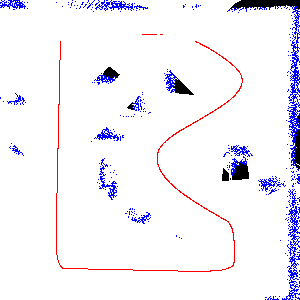
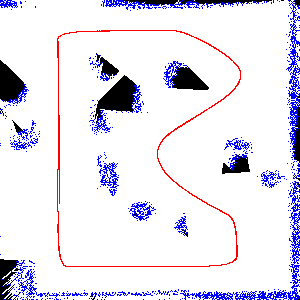
Lab4 code is done

diff --git a/lab4/controllers/csci3302_lab4/csci3302_lab4.py b/lab4/controllers/csci3302_lab4/csci3302_lab4.py
@@ -74,6 +74,8 @@ lidar_offsets = np.linspace(-math.pi/4, math.pi/4, LIDAR_ANGLE_BINS)
 
 #### End of Part 1 #####
 
+prevPose = []
+z = 0
 # Main Control Loop:
 while robot.step(SIM_TIMESTEP) != -1:
 
@@ -96,6 +98,10 @@ while robot.step(SIM_TIMESTEP) != -1:
     # hint: display.drawLine(int x1, int y1, int x2, y2)
 
     scale = 300
+    display.setColor(0xFF0000)  # red
+    display_x = round(pose_x * scale)
+    display_y = round(pose_y * scale)
+    display.drawPixel(display_x, display_y)
 
     # Part 3: Convert Lidar data into world coordinates
     #
@@ -113,30 +119,27 @@ while robot.step(SIM_TIMESTEP) != -1:
     for i in range(len(lidar_sensor_readings)):
         if (lidar_sensor_readings[i] > LIDAR_SENSOR_MAX_RANGE):
             lidar_sensor_readings[i] = LIDAR_SENSOR_MAX_RANGE
-            # Nada
         # Convert to Robot frame of reference
         xR.append(lidar_sensor_readings[i] * math.cos(lidar_offsets[i]))
         yR.append(lidar_sensor_readings[i] * math.sin(lidar_offsets[i]))
         # Convert robot coordinates to world coordinates
-        xW.append(math.cos(pose_theta-(math.pi/2)) *
-                  xR[i] + yR[i]*math.sin(pose_theta-(math.pi/2)) + pose_x)
-        yW.append(-math.sin(pose_theta-(math.pi/2)) *
-                  xR[i] + yR[i]*math.cos(pose_theta-(math.pi/2)) + pose_y)
-
-        display_xR = round(pose_x * scale)
-        display_yR = round(pose_y * scale)
-        display_xW = round(xW[i] * scale)
-        display_yW = round(yW[i] * scale)
-        if (display != 0x0000FF or display != 0xFF0000):
+        xW.append(math.cos(pose_theta-(math.pi/2)) * xR[i] + yR[i]*math.sin(pose_theta-(math.pi/2)) + pose_x)
+        yW.append(-math.sin(pose_theta-(math.pi/2)) * xR[i] + yR[i]*math.cos(pose_theta-(math.pi/2)) + pose_y)
+        if(lidar_sensor_readings[i] != LIDAR_SENSOR_MAX_RANGE):
+            display_xW = round(xW[i] * scale)
+            display_yW = round(yW[i] * scale)
             display.setColor(0xFFFFFF)  # white
-        display.drawLine(display_xR, display_yR, display_xW, display_yW)
-        display.setColor(0x0000FF)  # blue
-        display.drawPixel(display_xW, display_yW)
-
-    display_x = round(pose_x * scale)
-    display_y = round(pose_y * scale)
+            display.drawLine(display_x, display_y, display_xW, display_yW)
+            display.setColor(0xFF0000)  # red
+            display.drawPixel(display_x, display_y)
+            display.setColor(0x0000FF)  # blue
+            display.drawPixel(display_xW, display_yW)
+    print(len(prevPose))
+    if(len(prevPose) < 3500):
+        prevPose.append((display_x,display_y))
     display.setColor(0xFF0000)  # red
-    display.drawPixel(display_x, display_y)
+    for i in range(len(prevPose)):
+                display.drawPixel(prevPose[i][0], prevPose[i][1])
 
     # print("\n ----- \n xR: %f yR: %f " % (xR[10], yR[10]))
     # print("xW: %f yW: %f \n" % (xW[10], yW[10]))
